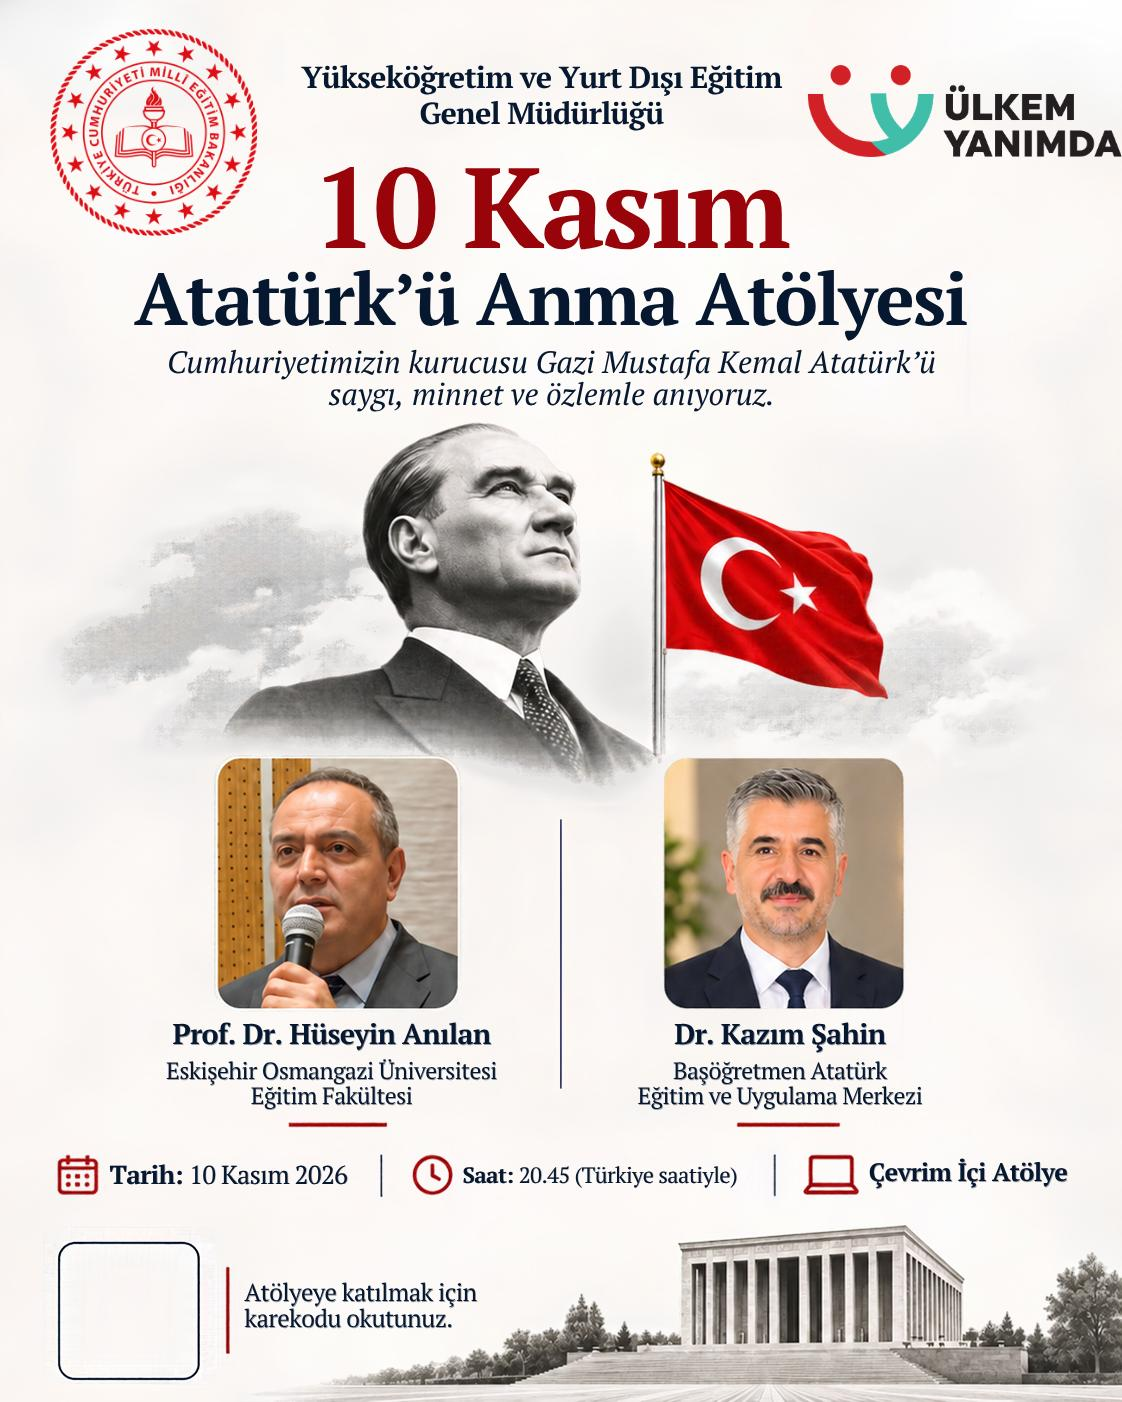
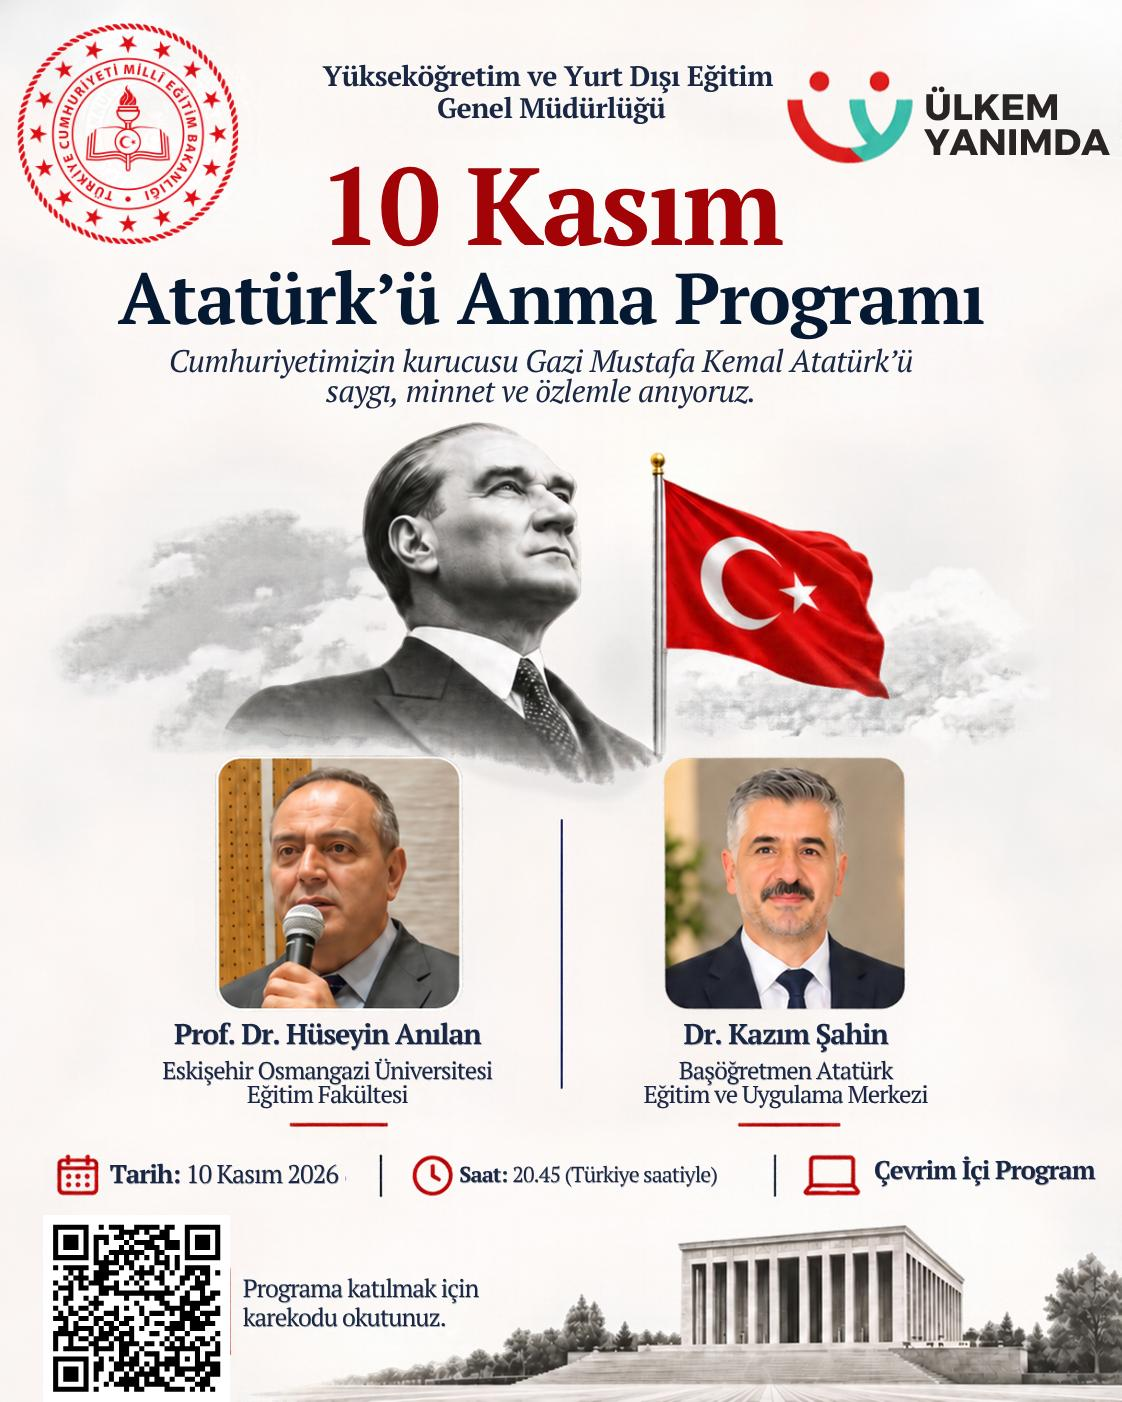
10 kasım

diff --git a/10-kasim-anma-programi.html b/10-kasim-anma-programi.html
@@ -27,7 +27,7 @@ main{background:radial-gradient(ellipse at 0 15%,#48232c55,transparent 55%),radi
 <a class="join" href="https://teams.microsoft.com/meet/3252268094491789?p=SAq5Pgsgl6oNkcqInx" target="_blank" rel="noopener noreferrer"><svg viewBox="0 0 24 24" fill="none" stroke="currentColor" stroke-width="1.7" aria-hidden="true"><rect x="3" y="6" width="12" height="12" rx="3"/><path d="m15 10 6-3v10l-6-3"/></svg>Programa Katıl<span aria-hidden="true">→</span></a>
 <p class="note">Katılım düğmesi Microsoft Teams’i yeni sekmede açar. Programa bilgisayar, tablet veya telefonunuzdan katılabilirsiniz.</p>
 </section>
-<figure class="poster"><a href="linkler/imgs/10-kasim-2026-afis.jpeg" target="_blank" rel="noopener noreferrer" aria-label="10 Kasım program afişini büyük görüntüle"><img src="linkler/imgs/10-kasim-2026-afis.jpeg" alt="10 Kasım Atatürk’ü Anma Atölyesi afişi; Atatürk, Türk bayrağı ve konuşmacılar" width="1122" height="1402"></a><figcaption>Program afişi · Büyütmek için dokunun.</figcaption></figure>
+<figure class="poster"><a href="linkler/imgs/10-kasim-2026-afis.jpeg?v=20261107" target="_blank" rel="noopener noreferrer" aria-label="10 Kasım program afişini büyük görüntüle"><img src="linkler/imgs/10-kasim-2026-afis.jpeg?v=20261107" alt="10 Kasım Atatürk’ü Anma Programı afişi; Atatürk, Türk bayrağı ve konuşmacılar" width="1122" height="1402"></a><figcaption>Program afişi · Büyütmek için dokunun.</figcaption></figure>
 </div></main>
 <footer>© 2026 Ülkem Yanımda</footer>
 </body>
